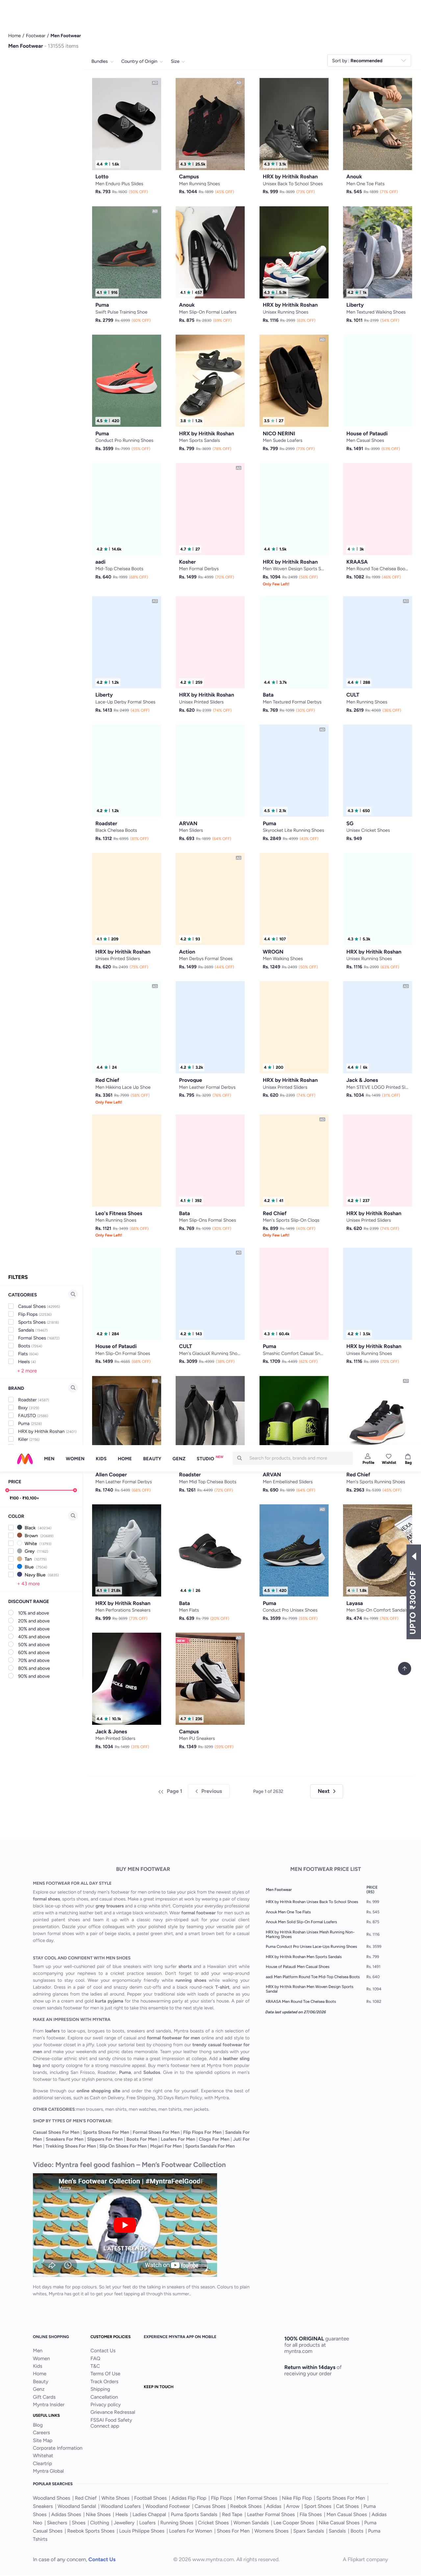
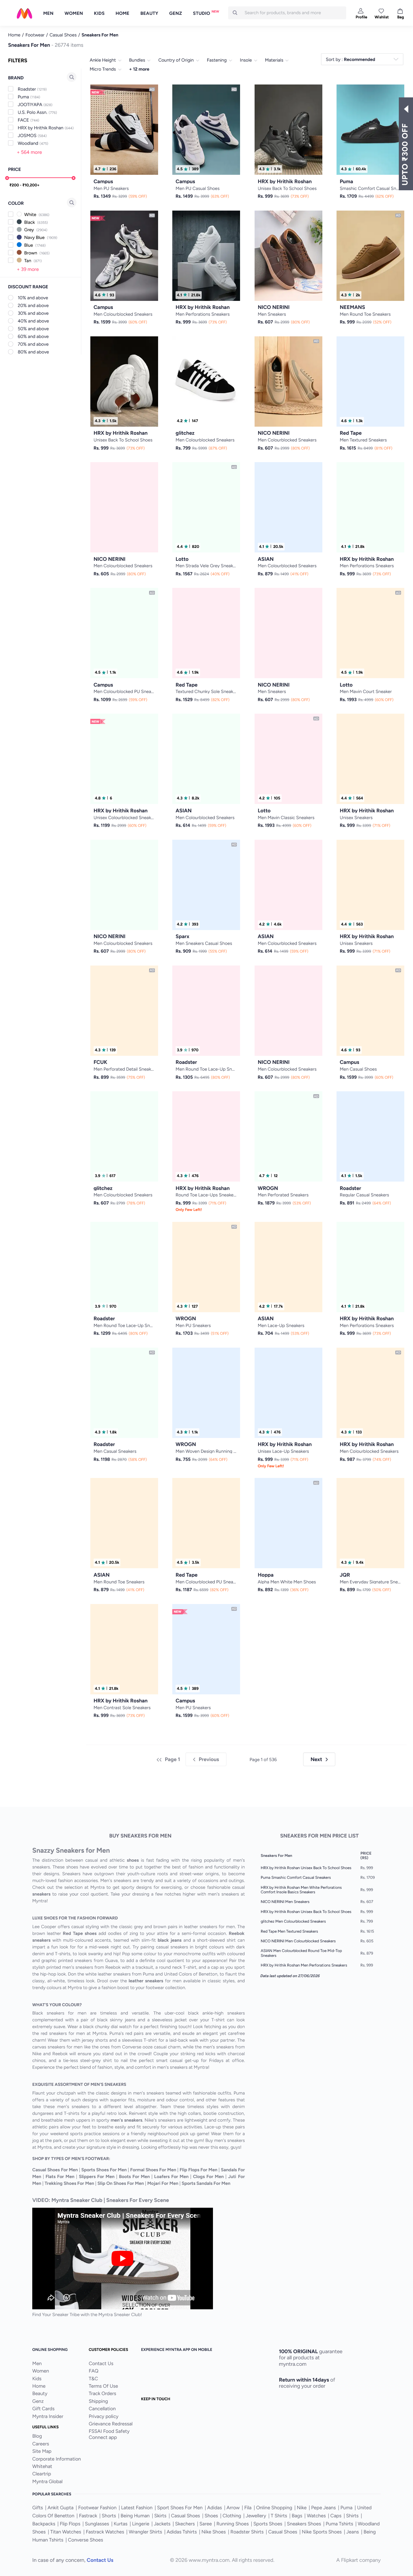
myntra test case

diff --git a/tests/myntra.spec.ts b/tests/myntra.spec.ts
@@ -1,11 +1,22 @@
 /* 
 write a seperate test. 1. go to myntra.com 2. go to men->footwear->sneakers 3. take a screenshot and save in screenshots folder
  */
-import { test } from '@playwright/test';
+import { test, expect } from '@playwright/test';
 import { mkdirSync } from 'fs';
 import path from 'path';
 
 test.use({ browserName: 'firefox' });
+
+async function clickNavOrGoTo(page: Parameters<typeof test>[0]['page'], label: string, urlPath: string) {
+  const link = page.locator('a').filter({ hasText: new RegExp(`^${label}$`, 'i') }).first();
+
+  if (await link.isVisible({ timeout: 5000 }).catch(() => false)) {
+    await link.click({ timeout: 25000 });
+    return;
+  }
+
+  await page.goto(`https://www.myntra.com${urlPath}`, { waitUntil: 'domcontentloaded', timeout: 60000 });
+}
 
 test('navigate to Myntra men footwear sneakers and save a screenshot', async ({ page }) => {
   const screenshotsDir = path.resolve(__dirname, '..', 'screenshots');
@@ -15,14 +26,15 @@ test('navigate to Myntra men footwear sneakers and save a screenshot', async ({ 
   await page.waitForLoadState('networkidle', { timeout: 15000 }).catch(() => undefined);
 
   const acceptButton = page.getByRole('button', { name: /accept|allow/i }).first();
-  if (await acceptButton.isVisible().catch(() => false)) {
+  if (await acceptButton.isVisible({ timeout: 5000 }).catch(() => false)) {
     await acceptButton.click();
   }
 
-  await page.getByRole('link', { name: 'Men' }).first().click({ timeout: 45000 });
-  await page.getByRole('link', { name: 'Footwear' }).first().click({ timeout: 45000 });
-  await page.getByRole('link', { name: 'Sneakers' }).first().click({ timeout: 45000 });
+  await clickNavOrGoTo(page, 'Men', '/shop/men');
+  await clickNavOrGoTo(page, 'Footwear', '/men-footwear');
+  await clickNavOrGoTo(page, 'Sneakers', '/men-sneakers');
 
+  await expect(page.getByText(/Sneakers/i).first()).toBeVisible({ timeout: 30000 });
   await page.waitForLoadState('networkidle', { timeout: 30000 }).catch(() => undefined);
 
   const screenshotPath = path.join(screenshotsDir, 'myntra-men-footwear-sneakers.png');